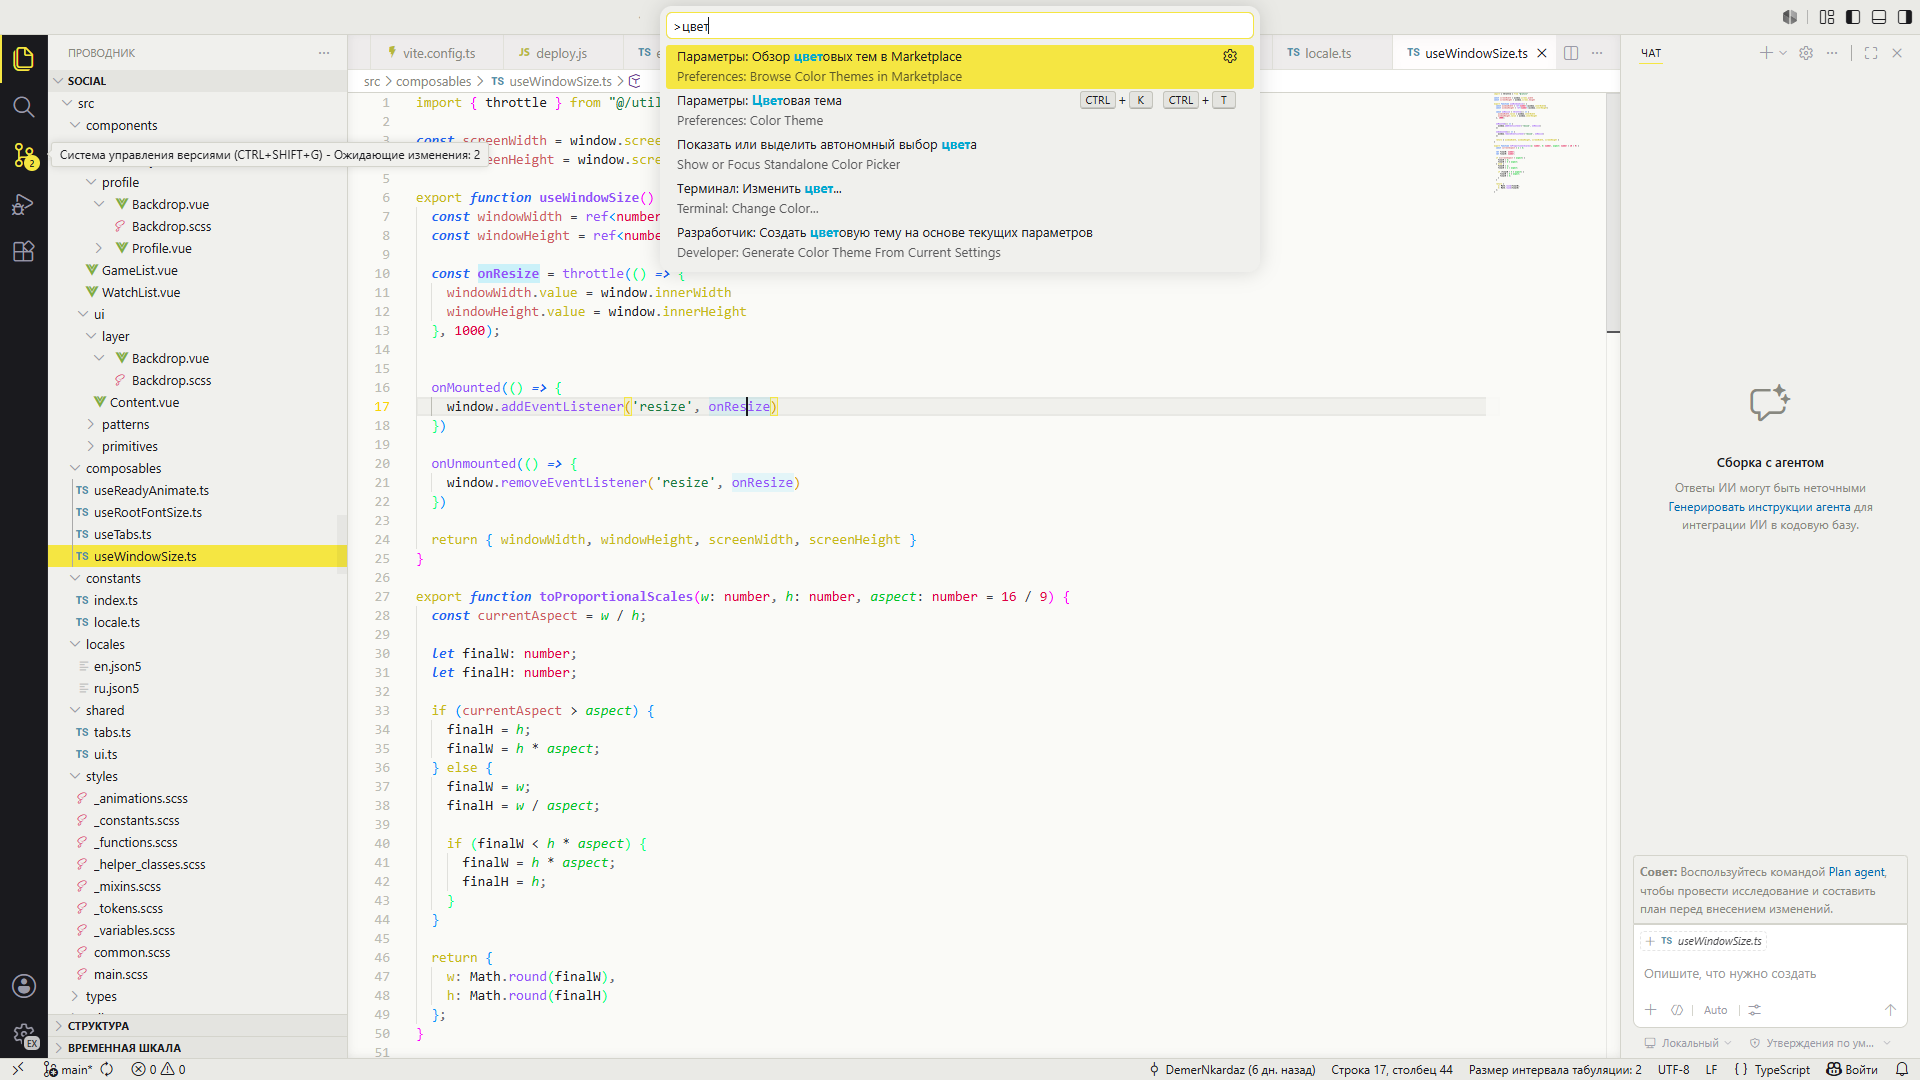
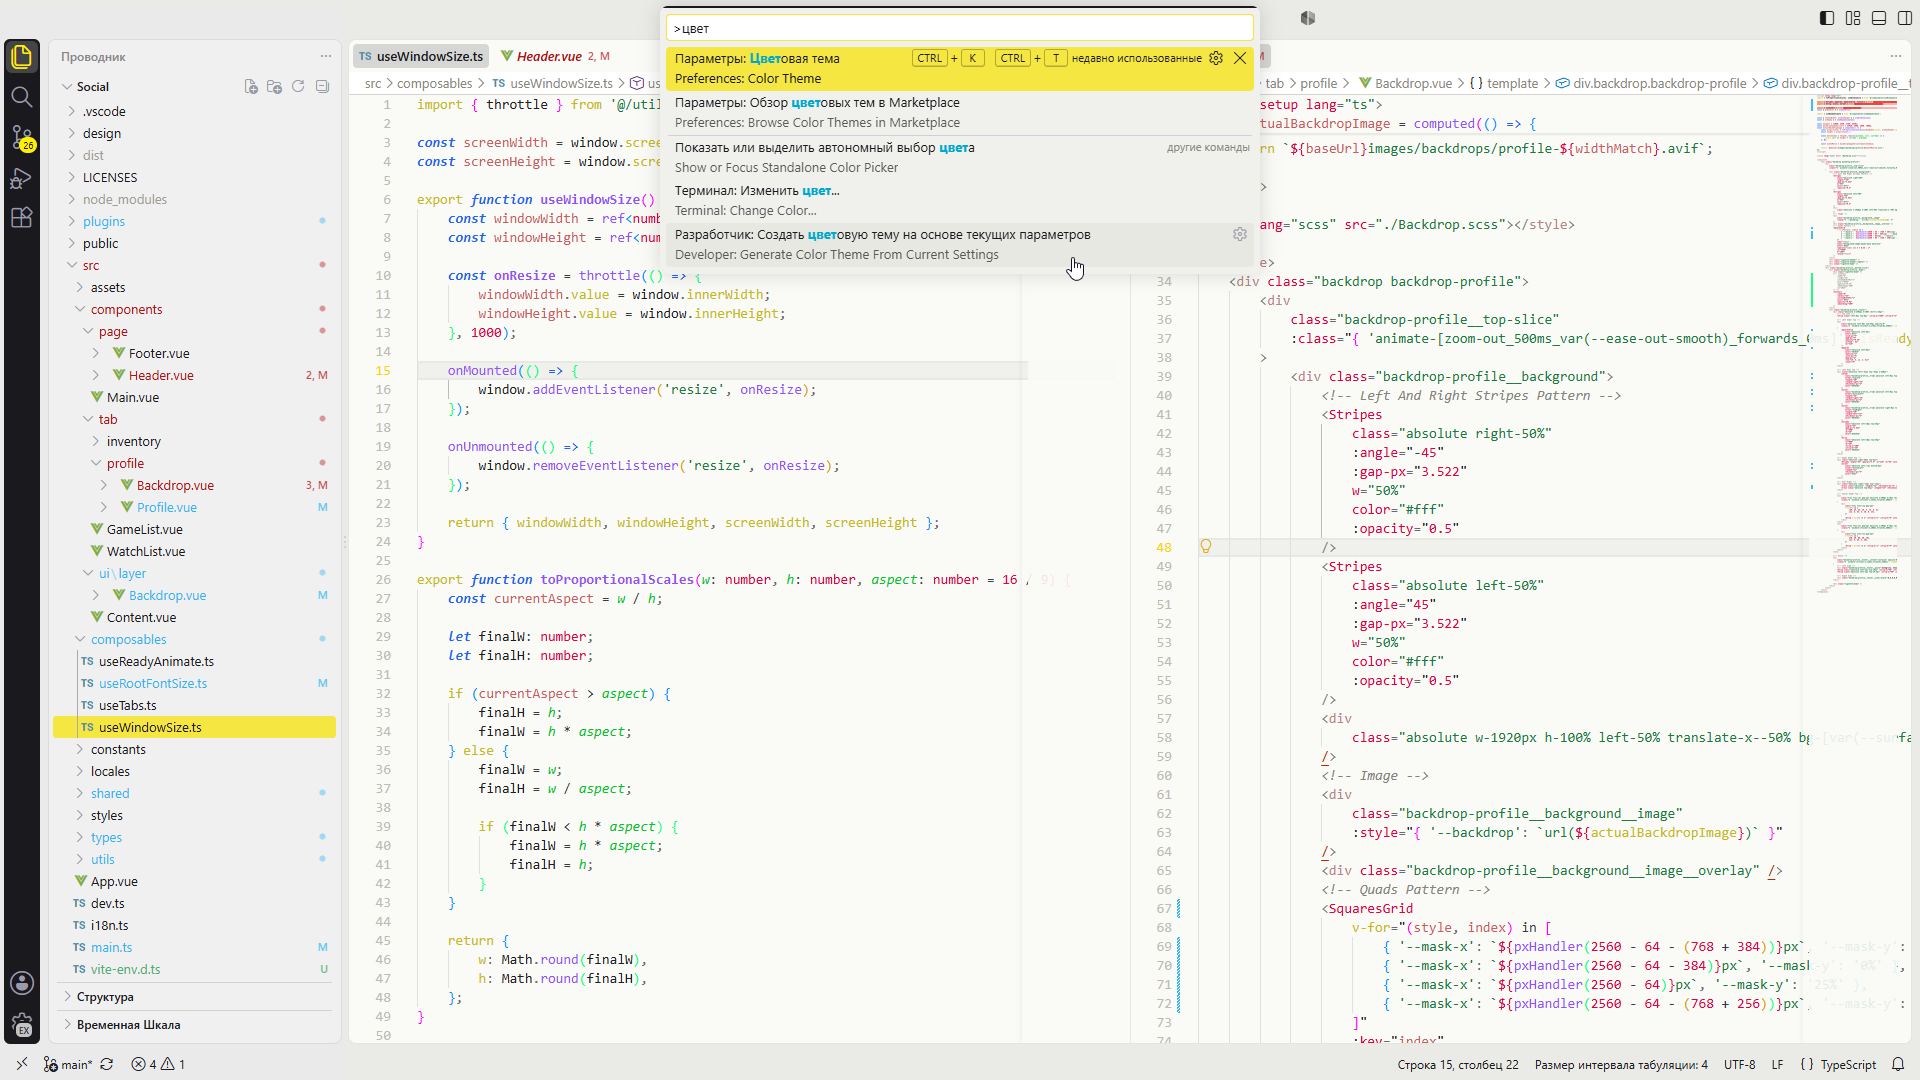
Fix watch / Screenshots update

diff --git a/scripts/watch-themes.js b/scripts/watch-themes.js
@@ -1,29 +1,63 @@
 #!/usr/bin/env node
 "use strict";
 
+const fs = require("fs");
 const path = require("path");
 const { execFileSync } = require("child_process");
 const chokidar = require("chokidar");
 
 const ROOT_DIR = path.resolve(__dirname, "..");
-const SRC_GLOB = path.join(ROOT_DIR, "src", "themes", "*.json");
+const SRC_DIR = path.join(ROOT_DIR, "src", "themes");
 const BUILD_SCRIPT = path.join(__dirname, "build-themes.js");
 
-function runBuild() {
+if (!fs.existsSync(SRC_DIR)) {
+  console.error(`Папка не найдена: ${SRC_DIR}`);
+  process.exit(1);
+}
+
+let building = false;
+let pendingRebuild = false;
+
+function runBuild(eventPath) {
+  if (building) {
+    pendingRebuild = true;
+    return;
+  }
+
+  building = true;
   const time = new Date().toLocaleTimeString();
-  console.log(`\n[${time}] Изменения обнаружены, пересобираю темы...`);
+  const label = eventPath ? path.basename(eventPath) : "инициализация";
+  console.log(`\n[${time}] Изменения (${label}), пересобираю темы...`);
+
   try {
     execFileSync(process.execPath, [BUILD_SCRIPT], { stdio: "inherit" });
   } catch {
-
-	}
+  } finally {
+    building = false;
+    if (pendingRebuild) {
+      pendingRebuild = false;
+      runBuild();
+    }
+  }
 }
 
-console.log(`Слежу за ${SRC_GLOB}`);
+console.log(`Слежу за ${SRC_DIR}`);
 runBuild();
 
-chokidar
-  .watch(SRC_GLOB, { ignoreInitial: true })
-  .on("add", runBuild)
-  .on("change", runBuild)
-  .on("unlink", runBuild);
+const watcher = chokidar.watch(SRC_DIR, {
+  ignoreInitial: true,
+  awaitWriteFinish: {
+    stabilityThreshold: 150,
+    pollInterval: 50,
+  },
+});
+
+function isJson(filePath) {
+  return filePath.toLowerCase().endsWith(".json");
+}
+
+watcher
+  .on("add", (p) => isJson(p) && runBuild(p))
+  .on("change", (p) => isJson(p) && runBuild(p))
+  .on("unlink", (p) => isJson(p) && runBuild(p))
+  .on("error", (err) => console.error("Ошибка watcher'а:", err));
